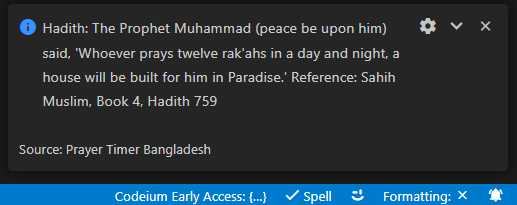
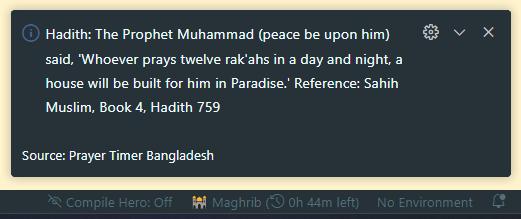
update image of doc

diff --git a/README.md b/README.md
@@ -22,6 +22,14 @@
   - `Show All Prayer Times`: Displays all prayer times in a list.
 
   ![Prayer Timer Bangladesh Icon](./screenshots/commands.png)
+
+- **Notifications**
+  - Prayer Timer Notification
+  ![Prayer Timer Notification](./screenshots/prayer-notifications.png)
+  ![Prayer Timer Notification](./screenshots/prayer-notifications-fullpage.png)
+  
+  - Hadith Notification
+  ![Prayer Timer Notification](./screenshots/hadith-notification.png)
   
 - **Status Bar Integration**: Seamlessly displays the current prayer time in the status bar without disrupting your workflow.
 
@@ -86,6 +94,11 @@
 - **Clean Prayer Timer from Memory**:
   - Command: `prayer-timer-bangladesh.resetPrayerTimes`
   - Description: Clears the stored prayer times and location information from memory and resets the timer.
+
+  
+- **Show Islamic Foundation Prayer Time**:
+  - Command: `prayer-timer-bangladesh.showBdPrayerTimes`
+  - Description: Show today's islamic foundation local (dhaka) prayer timer.
 
 ### Configuration
 
